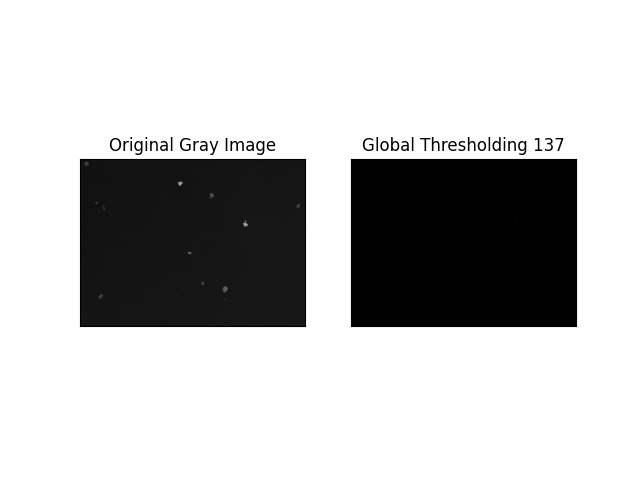
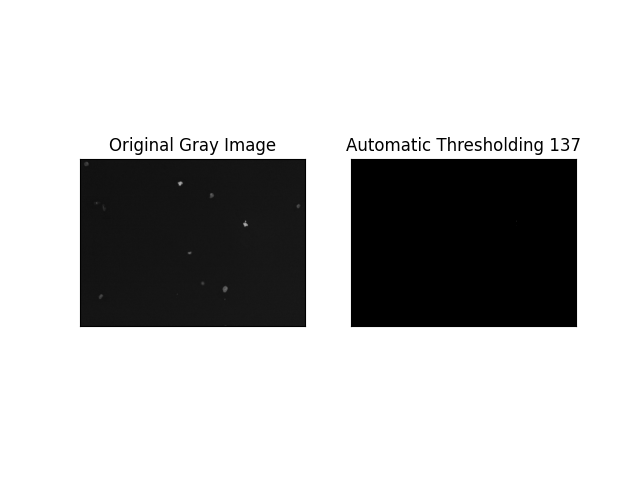
Acabamentos na questão 2

Changed region(s): [[0.5312, 0.2812, 0.9062, 0.3438]]

diff --git a/scritps/questao2.py b/scritps/questao2.py
@@ -75,7 +75,7 @@ class Questao2:
 
             # plot all the images and their histograms
             images = [gray_image, 0, img_our_method]
-            titles = ['Original Gray Image','Histogram','Global Thresholding '+str(int(second_th))]
+            titles = ['Original Gray Image','Histogram','Automatic Thresholding '+str(int(second_th))]
 
             # Plot da imagem original
             plt.subplot(1,2,1),plt.imshow(gray_image,'gray')
@@ -86,7 +86,7 @@ class Questao2:
             plt.title(titles[2]), plt.xticks([]), plt.yticks([])
 
             print(img_file_out.split(".")[0])
-            # plt.savefig(PATH_TO_IMGS_Q2+img_file_out.split(".")[0]+"a.png")
+            plt.savefig(PATH_TO_IMGS_Q2+img_file_out.split(".")[0]+"a.png")
             plt.close()
 
             # Histograma com eixo y limitado para facilitar a visualização
@@ -99,7 +99,7 @@ class Questao2:
             # Segundo e limiar final em vermelho
             plt.axvline(int(second_th), color='r', linestyle='dashed', linewidth=2)
 
-            # plt.savefig(PATH_TO_IMGS_Q2+img_file_out.split(".")[0]+"aHIST.png")
+            plt.savefig(PATH_TO_IMGS_Q2+img_file_out.split(".")[0]+"aHIST.png")
             plt.close()
 
             ################################################### B
@@ -118,13 +118,13 @@ class Questao2:
             plt.subplot(1,2,2),plt.imshow(img_our_method,'gray')
             plt.title(titles[2]), plt.xticks([]), plt.yticks([])
 
-            # plt.savefig(PATH_TO_IMGS_Q2+img_file_out.split(".")[0]+"b.png")
+            plt.savefig(PATH_TO_IMGS_Q2+img_file_out.split(".")[0]+"b.png")
             plt.close()          
 
             ################################################### C
 
-            print("\nEstatísticas nosso método")
-            connected_component_label(img_our_method)
+            # print("\nEstatísticas nosso método")
+            # connected_component_label(img_our_method)
             print("\nEstatísticas Otsu")
             connected_component_label(img_otsu)
             print("-------------------------------------------")
@@ -142,7 +142,7 @@ def connected_component_label(img):
     # Getting the input image
     ################img = cv2.imread(path, 0)
     # Converting those pixels with values 1-127 to 0 and others to 1
-    #################img = cv2.threshold(img, 127, 255, cv2.THRESH_BINARY)[1]
+    ################img = cv2.threshold(img, 127, 255, cv2.THRESH_BINARY)[1]
     # Applying cv2.connectedComponents() 
     num_labels, labels = cv2.connectedComponents(img)
     
@@ -156,7 +156,6 @@ def connected_component_label(img):
 
     # set bg label to black
     labeled_img[label_hue==0] = 0
-    
     
     # # Showing Original Image
     # plt.imshow(cv2.cvtColor(img, cv2.COLOR_BGR2RGB))
@@ -179,10 +178,10 @@ def connected_component_label(img):
     print("Total de labels")
     print(num_labels-1)
 
-    plt.imshow(final_img)
-    plt.axis('off')
-    plt.title("Image after Component Labeling")
-    plt.show()
+    # plt.imshow(final_img)
+    # plt.axis('off')
+    # plt.title("Image after Component Labeling")
+    # plt.show()
 
 
 
